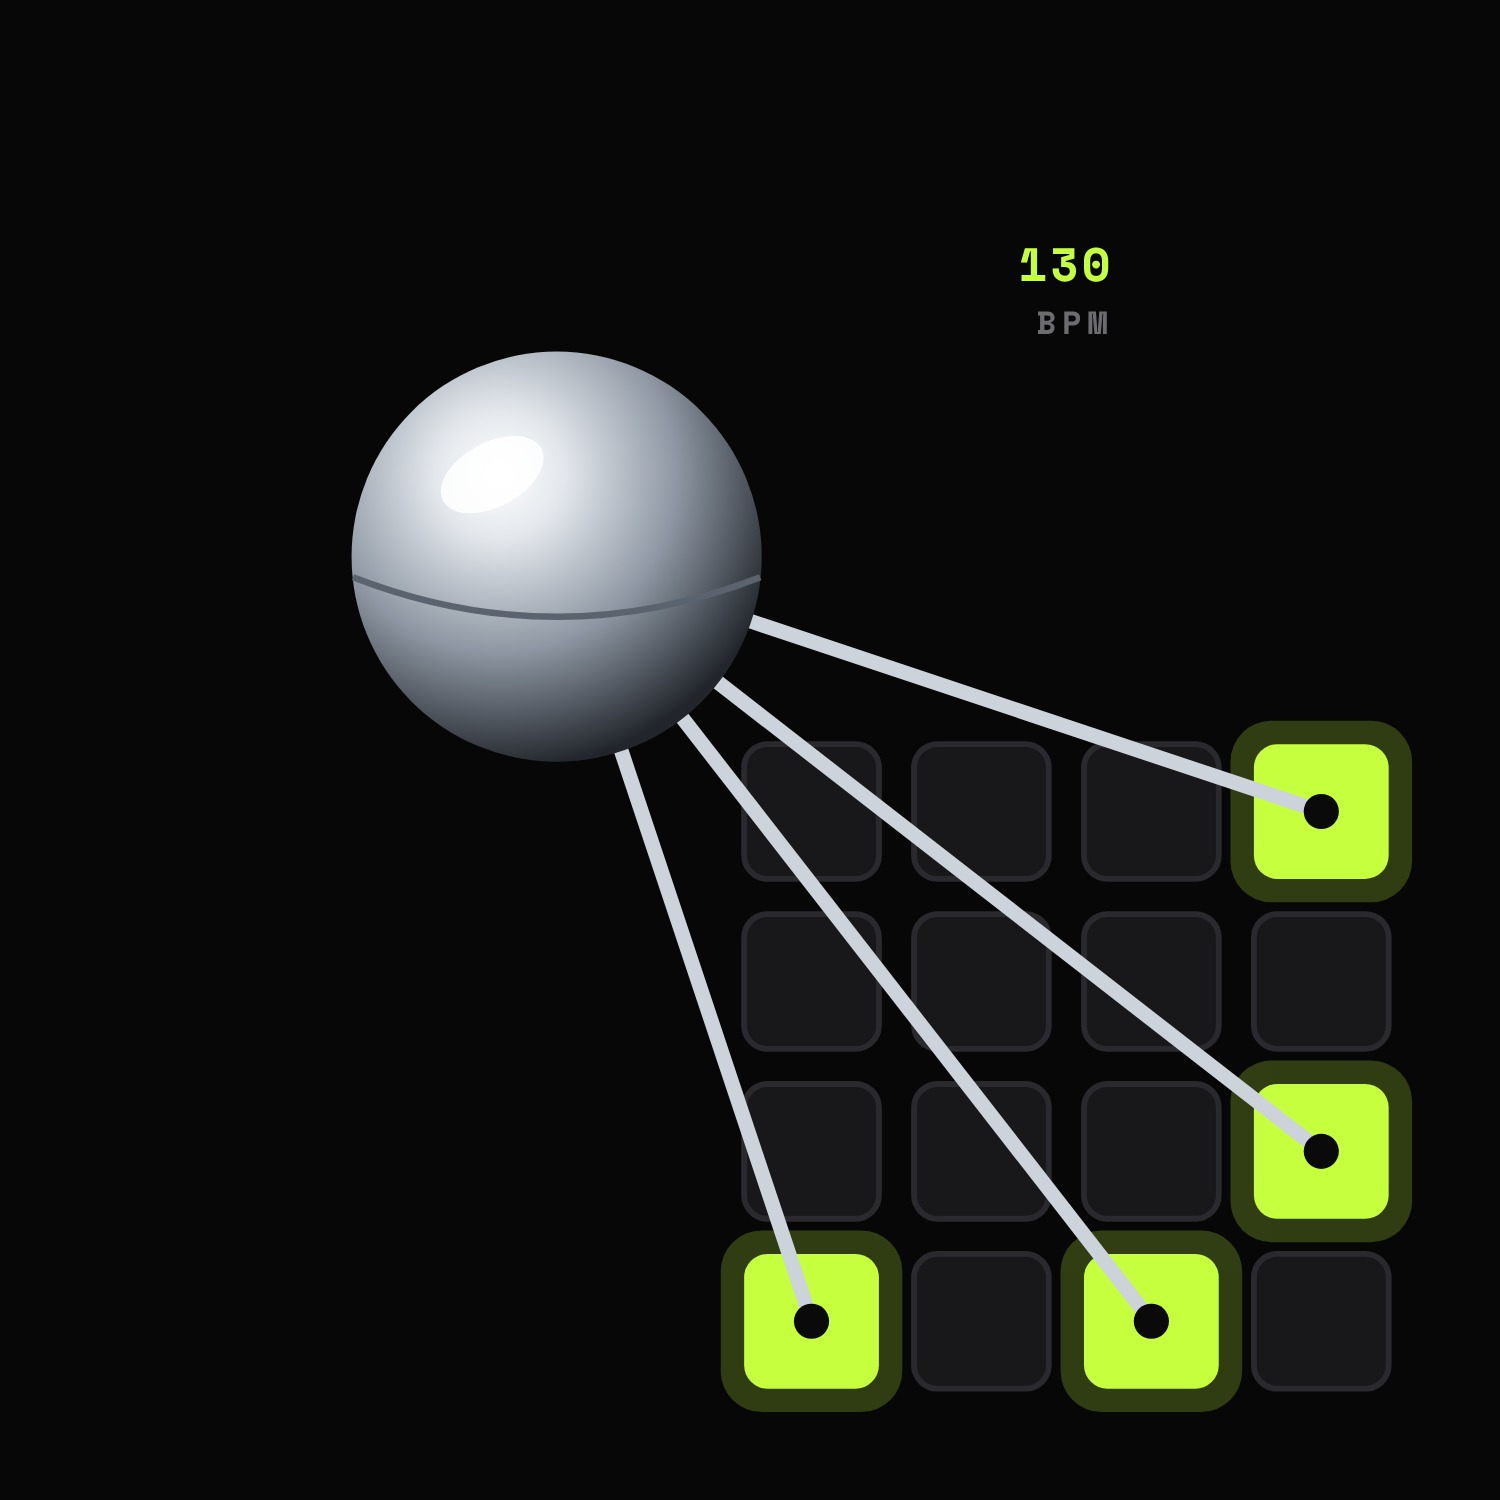
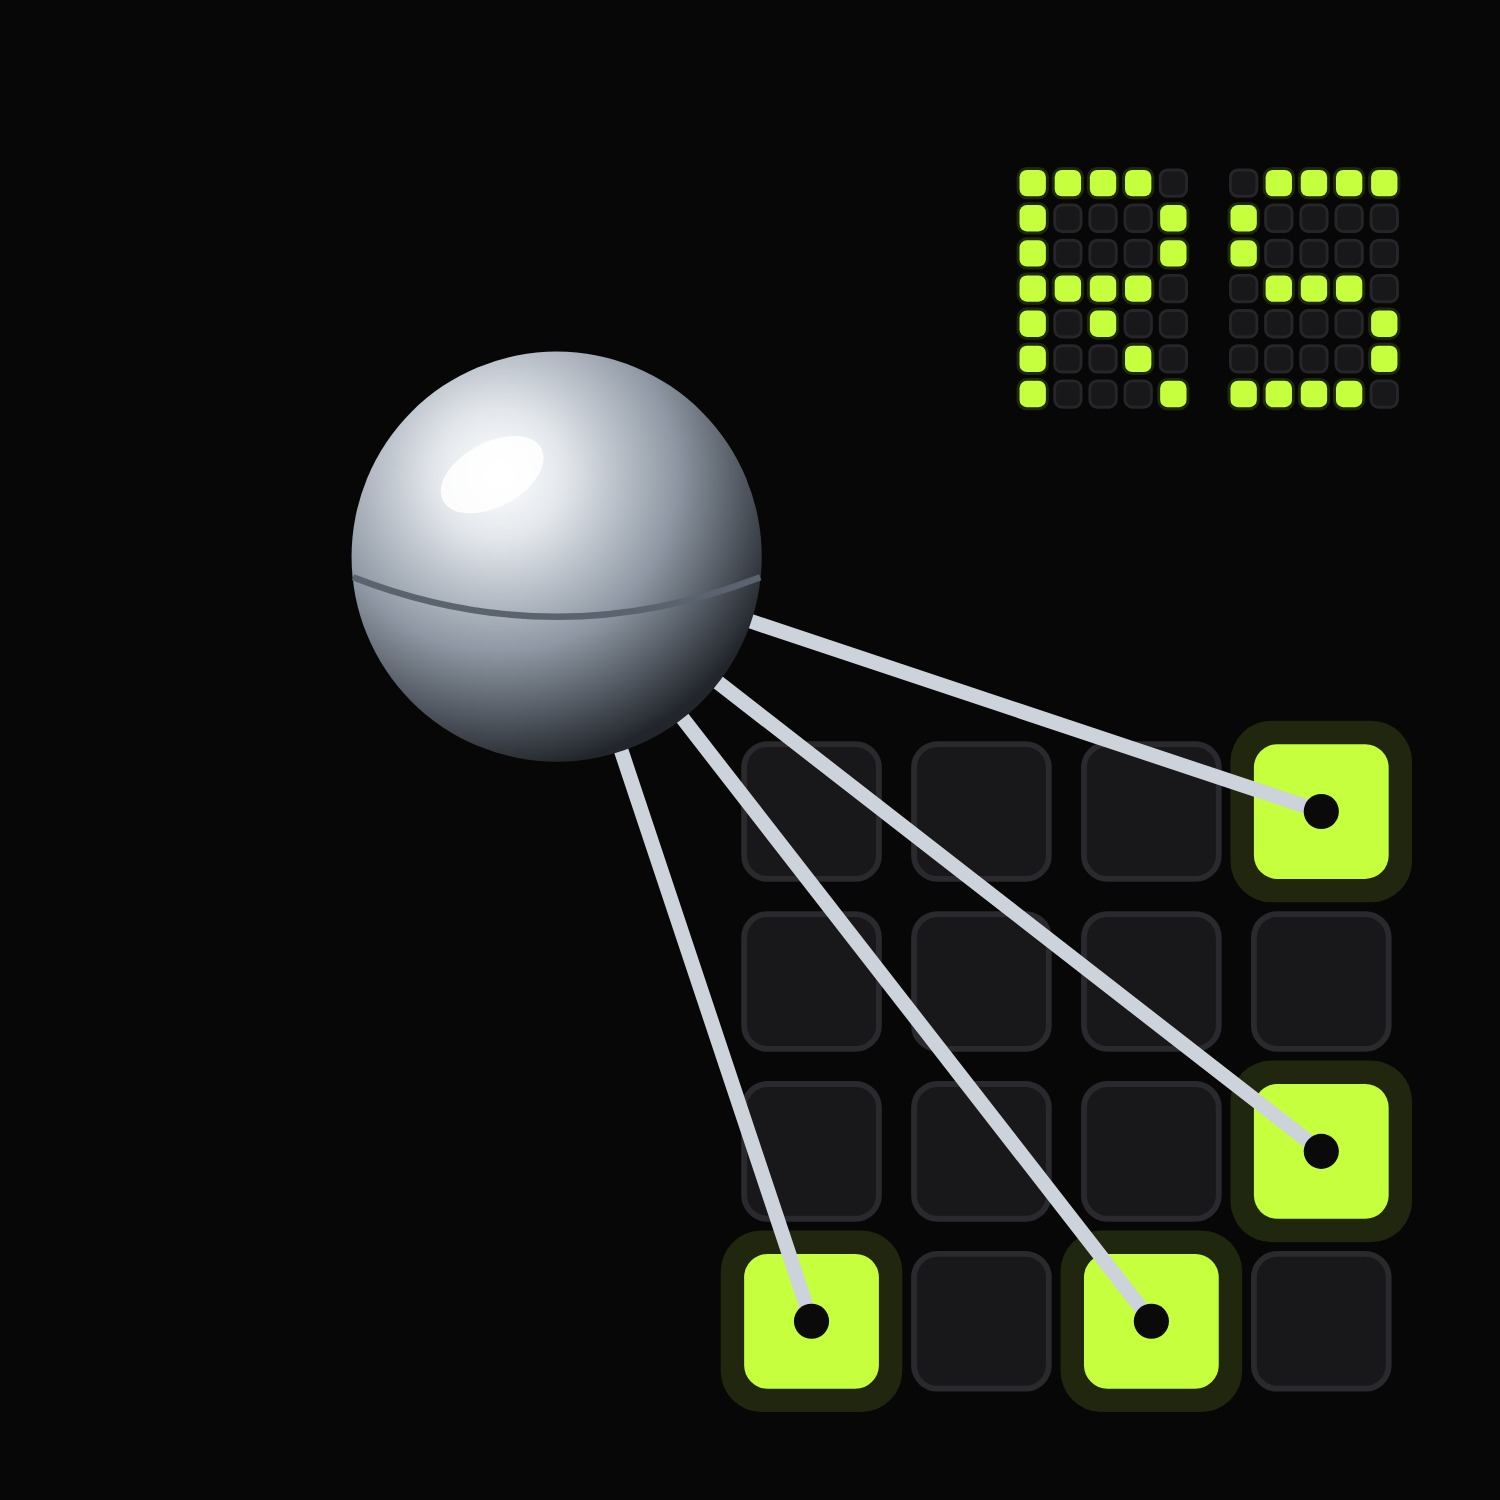
Replace 130 BPM on the playlist covers with an RS monogram
The Spotify and Tidal playlist covers now carry an RS monogram drawn as
a dot-matrix display from the same rounded pads as the sequencer grid,
in place of the 130 BPM text. teknoradio-playlist.svg is the master.
The app icon is unchanged.

Claude-Session: https://claude.ai/code/session_01ErcevmAh2oKGMs1iX5QTEQ

Changed region(s): [[0.6747, 0.092, 0.9507, 0.276]]

diff --git a/artwork/README.md b/artwork/README.md
@@ -2,12 +2,13 @@
 
 | File | Size | Use |
 | ---- | ---- | --- |
-| `teknoradio-spotify-playlist-1500.jpg` | 1500×1500 | Spotify playlist cover (upload in the Spotify app) |
-| `teknoradio-tidal-playlist-1500.jpg` | 1500×1500 | Tidal playlist cover (upload in the Tidal app) |
+| `teknoradio-spotify-playlist-1500.jpg` | 1500×1500 | Spotify playlist cover with the RS monogram (upload in the Spotify app) |
+| `teknoradio-tidal-playlist-1500.jpg` | 1500×1500 | Tidal playlist cover with the RS monogram (upload in the Tidal app) |
 | `teknoradio-spotify-playlist-640-api.jpg` | 640×640, under 256 KB | Spotify cover for upload through the Web API |
 | `teknoradio-spotify-cover-1500.jpg` | 1500×1500 | Alternative cover with "SPUTNIK" and "TeknoRadio" text |
 | `teknoradio-app-icon.png` | 1024×1024 | App icon, square (iOS/Android masks the corners) |
 | `teknoradio-macos-icon-1024.png` | 1024×1024 | macOS icon with rounded shape and padding |
+| `teknoradio-playlist.svg` | vector | Master for the playlist covers (icon art with the RS monogram) |
 | `teknoradio-app-icon.svg`, `teknoradio-spotify-cover.svg` | vector | Masters for any other size |
 
 The icon the app itself uses is `sputnik_tracker/assets/AppIcon.icns`.
